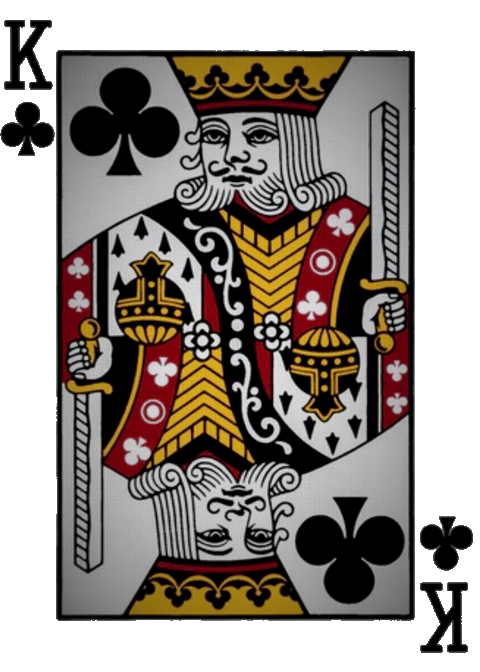
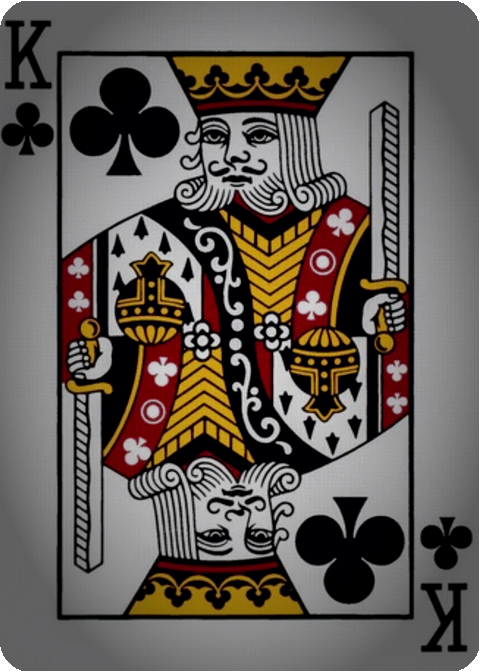
fix: swap tarot/uno positions, restore king card white border
- card-2: UNO (was tarot), card-5: Tarot (was uno)
- King reprocessed without bg removal to keep white card edges

diff --git a/index.html b/index.html
@@ -43,10 +43,10 @@
 
       <div class="cards-container" id="cards-container">
         <div class="card-img" id="card-1"><img src="assets/images/card-mtg.png"     alt="Magic: The Gathering kaart" /></div>
-        <div class="card-img" id="card-2"><img src="assets/images/card-tarot.png"   alt="Tarot kaart" /></div>
+        <div class="card-img" id="card-2"><img src="assets/images/card-uno.png"     alt="UNO kaart" /></div>
         <div class="card-img" id="card-3"><img src="assets/images/card-pikachu.png" alt="Pokémon kaart" /></div>
         <div class="card-img" id="card-4"><img src="assets/images/card-king.png"    alt="Schoppenkoningin" /></div>
-        <div class="card-img" id="card-5"><img src="assets/images/card-uno.png"     alt="UNO kaart" /></div>
+        <div class="card-img" id="card-5"><img src="assets/images/card-tarot.png"   alt="Tarot kaart" /></div>
       </div><!-- /cards-container -->
 
       <div class="landing-texts">